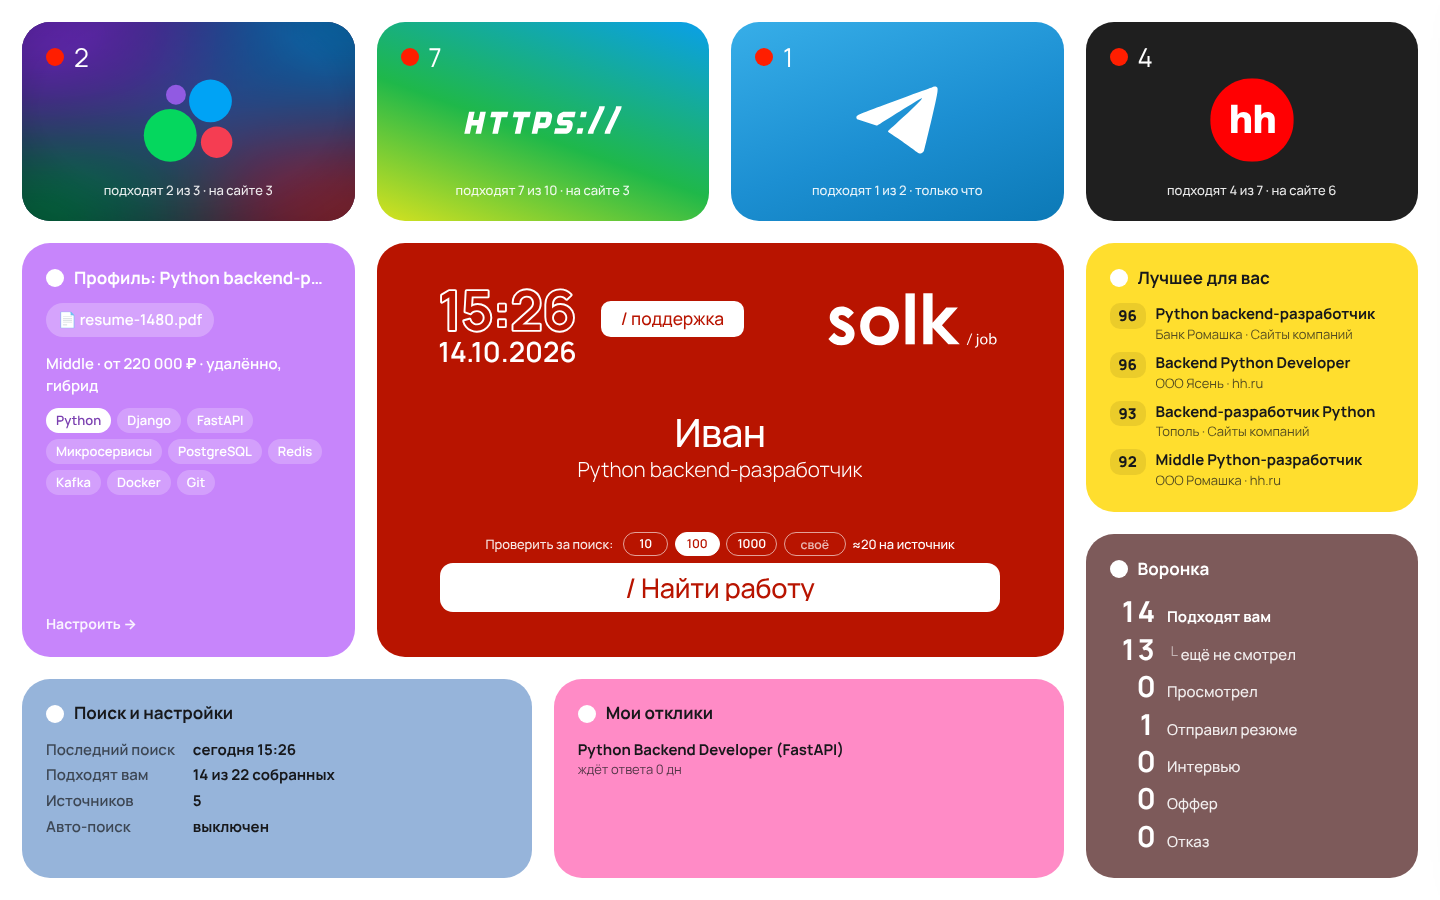
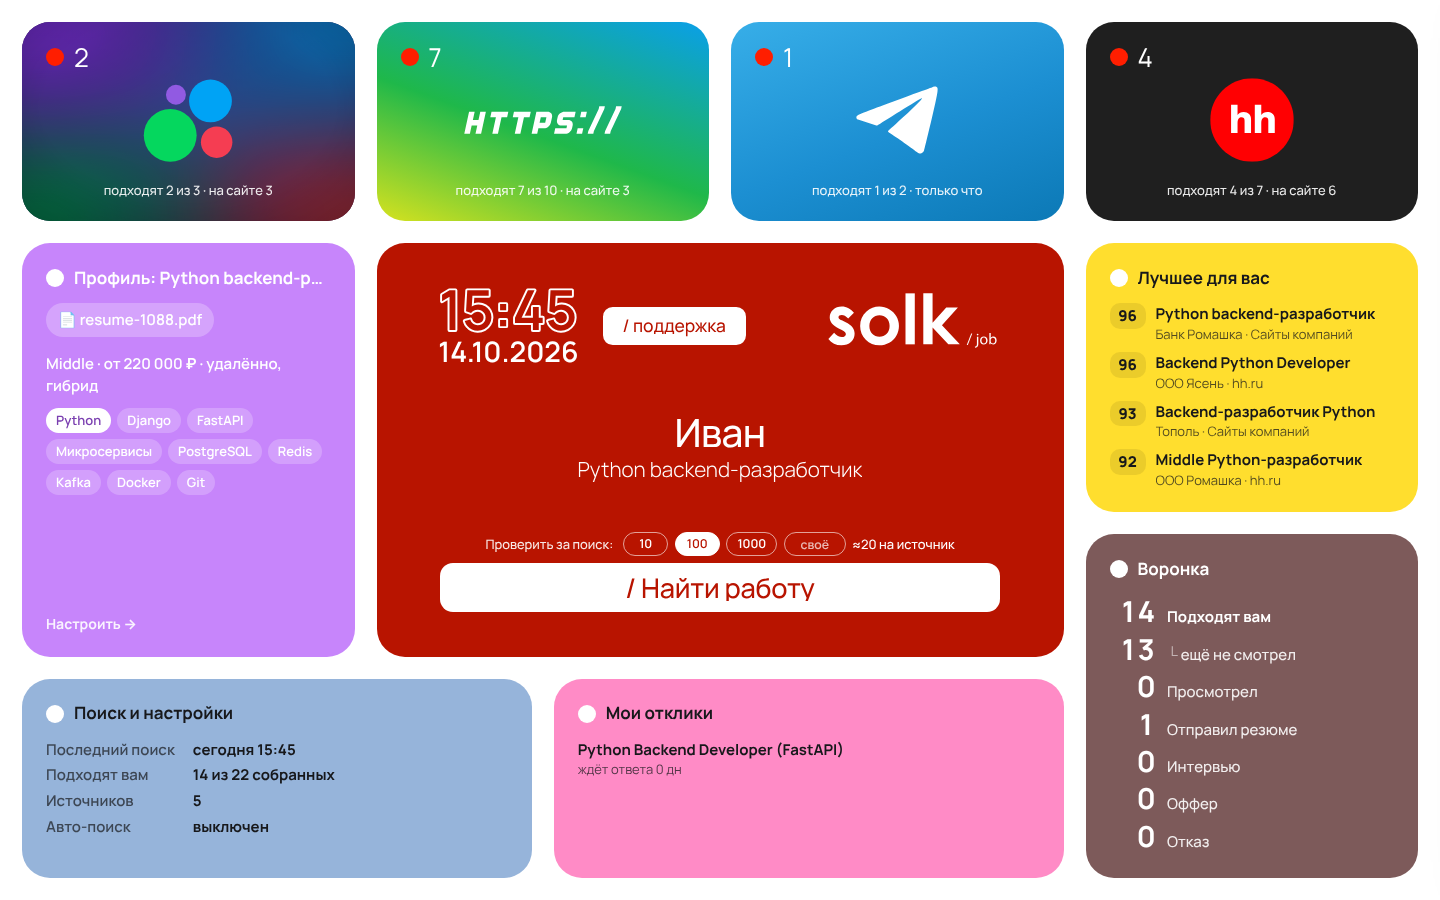
v0.8.1: «/ поддержка» по направляющим логотипа solk
Верх кнопки — по верху строчных «s/o», низ — по нижнему краю «solk»;
высота считается от высоты логотипа, поэтому выравнивание держится на любом экране.

Claude-Session: https://claude.ai/code/session_011yHYjDSQPaJ1ieGcuGDC3y

Changed region(s): [[0.3125, 0.3111, 0.5312, 0.4044]]

diff --git a/extension/ui.css b/extension/ui.css
@@ -153,9 +153,10 @@ button, input, select, textarea { font: inherit; color: inherit; }
 .main-left { display: flex; align-items: flex-start; gap: 4.6cqw; min-width: 0; }
 /* «/ поддержка»: белая плашка того же шрифта, по вертикали — по центру строки со временем. */
 .support {
-  --sh: 11cqh;
-  /* Центр по вертикали — середина надписи «solk» в логотипе (ink 51.9…157.6 из 126.36 высоты SVG). */
-  flex: none; height: var(--sh); margin-top: calc(var(--brand-top) + var(--brand-h) * .473 - var(--sh) / 2);
+  /* По направляющим логотипа: верх — по верху строчных «s/o», низ — по нижнему краю «solk»
+     (в SVG 126.36 высотой с верхом 44.98: строчные 79.4…157.5). */
+  --sh: calc(var(--brand-h) * .6181);
+  flex: none; height: var(--sh); margin-top: calc(var(--brand-top) + var(--brand-h) * .2724);
   display: inline-flex; align-items: center; padding: 0 3.2cqw; border-radius: 3cqh;
   background: #fff; color: var(--red); border: 2px solid #fff;
   font: 500 5.4cqh/1 Manrope, sans-serif; letter-spacing: -.005em; white-space: nowrap; text-decoration: none;
